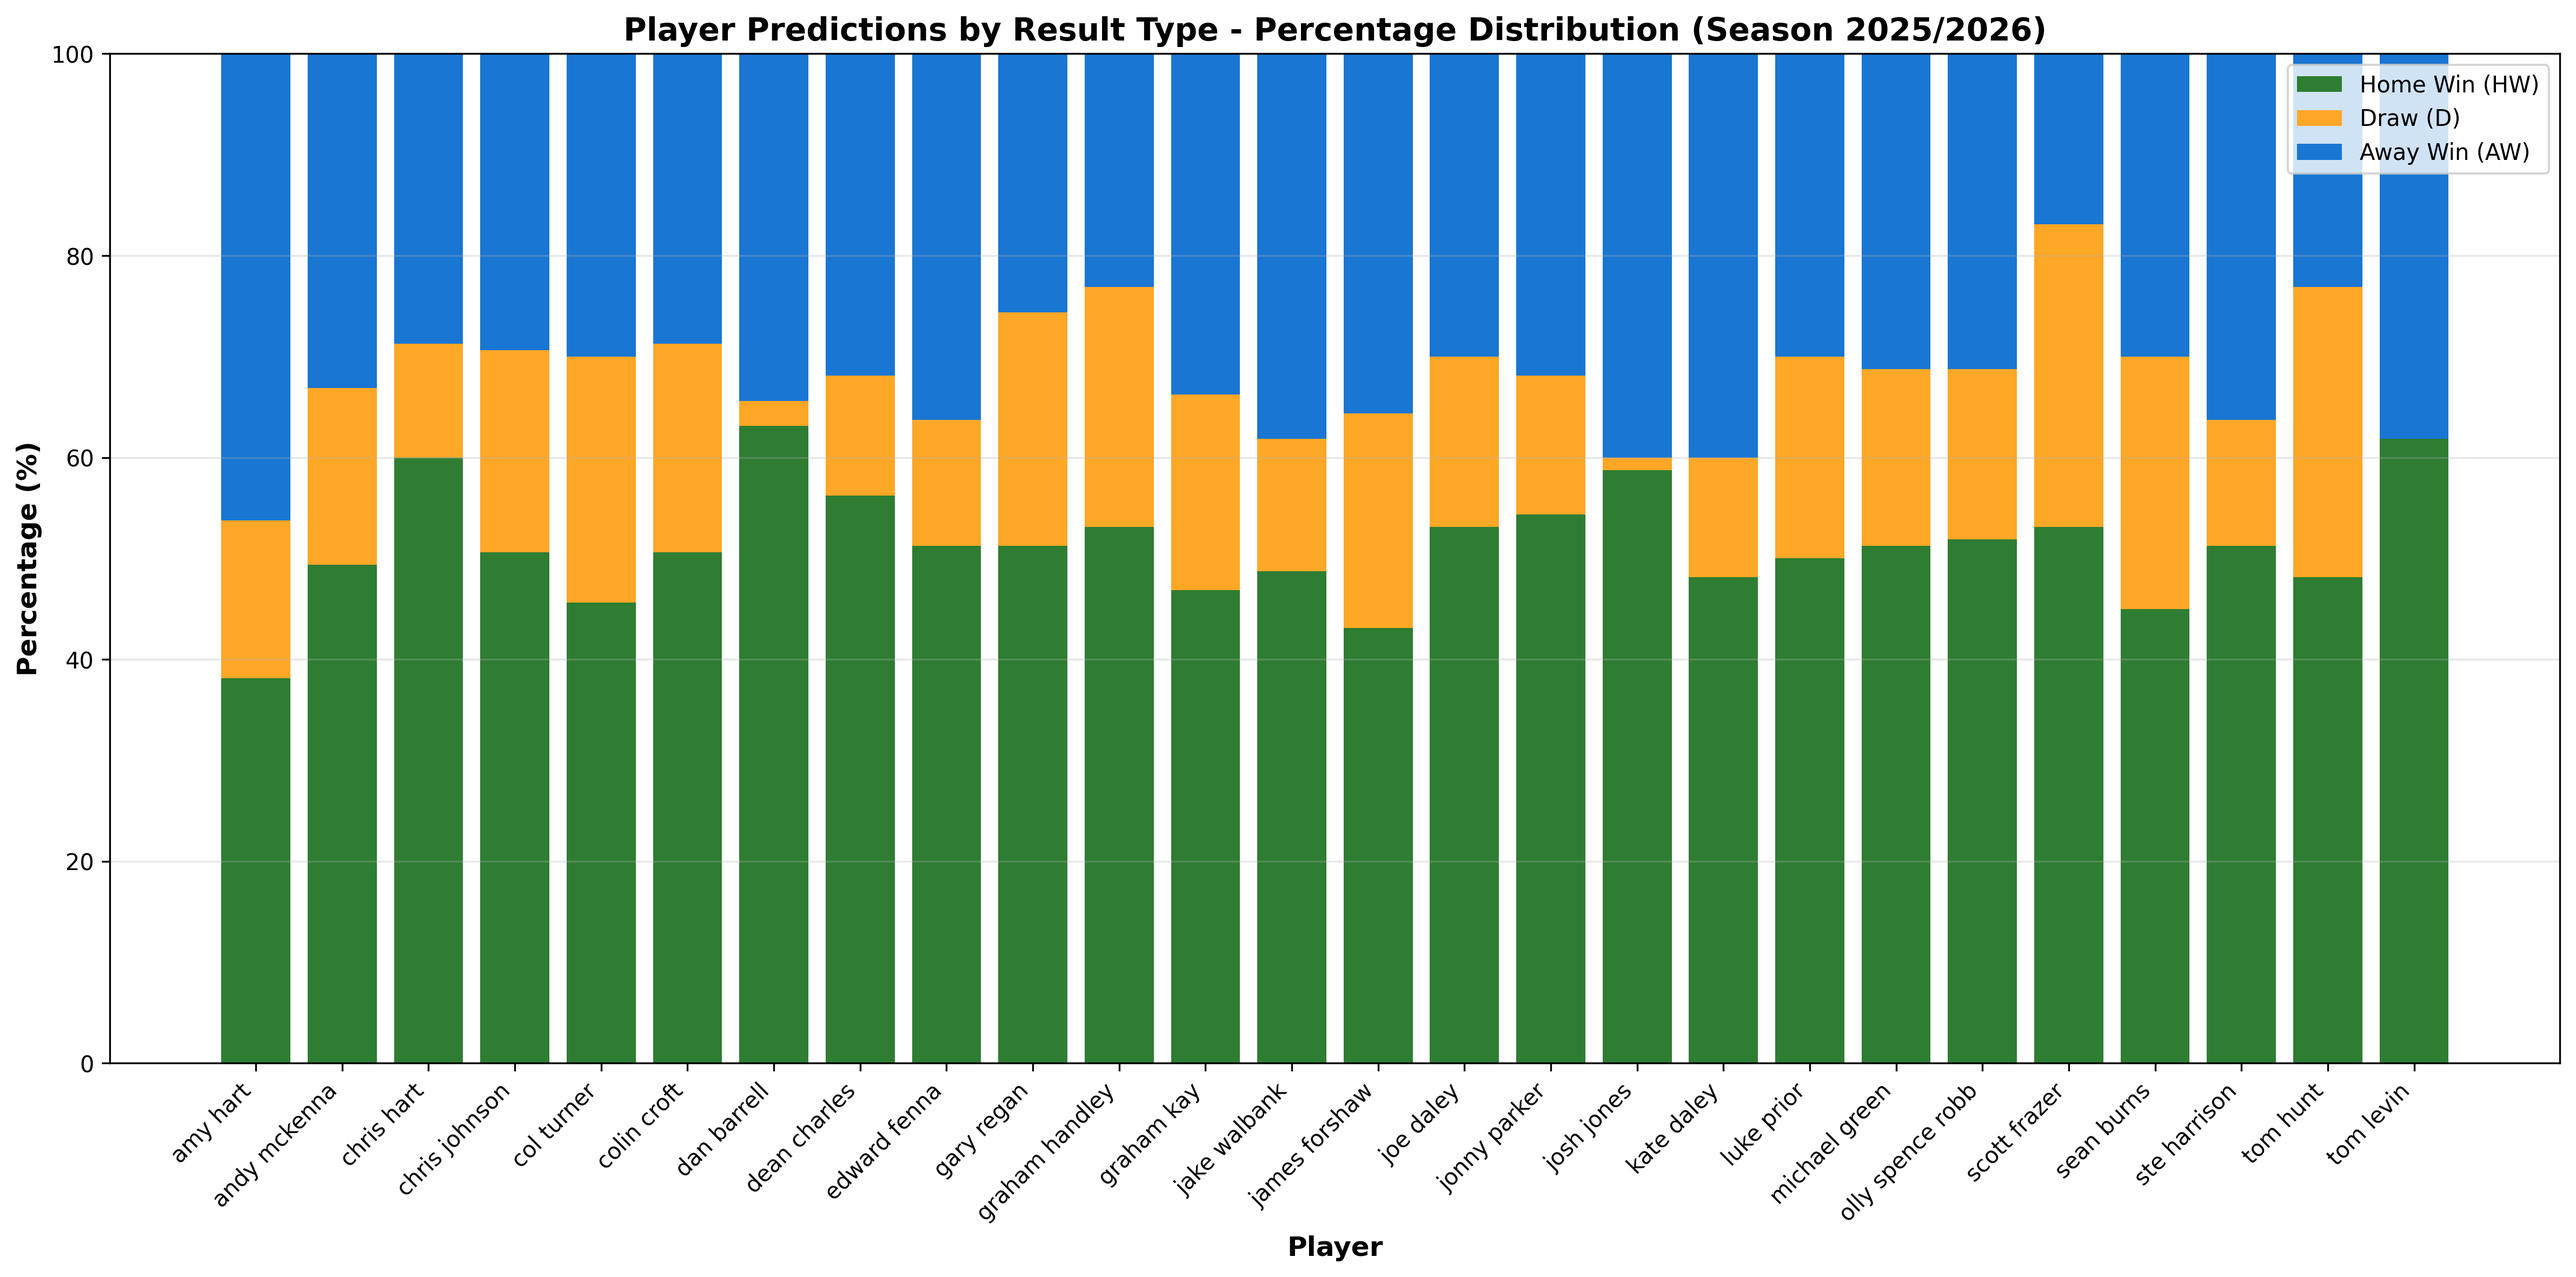
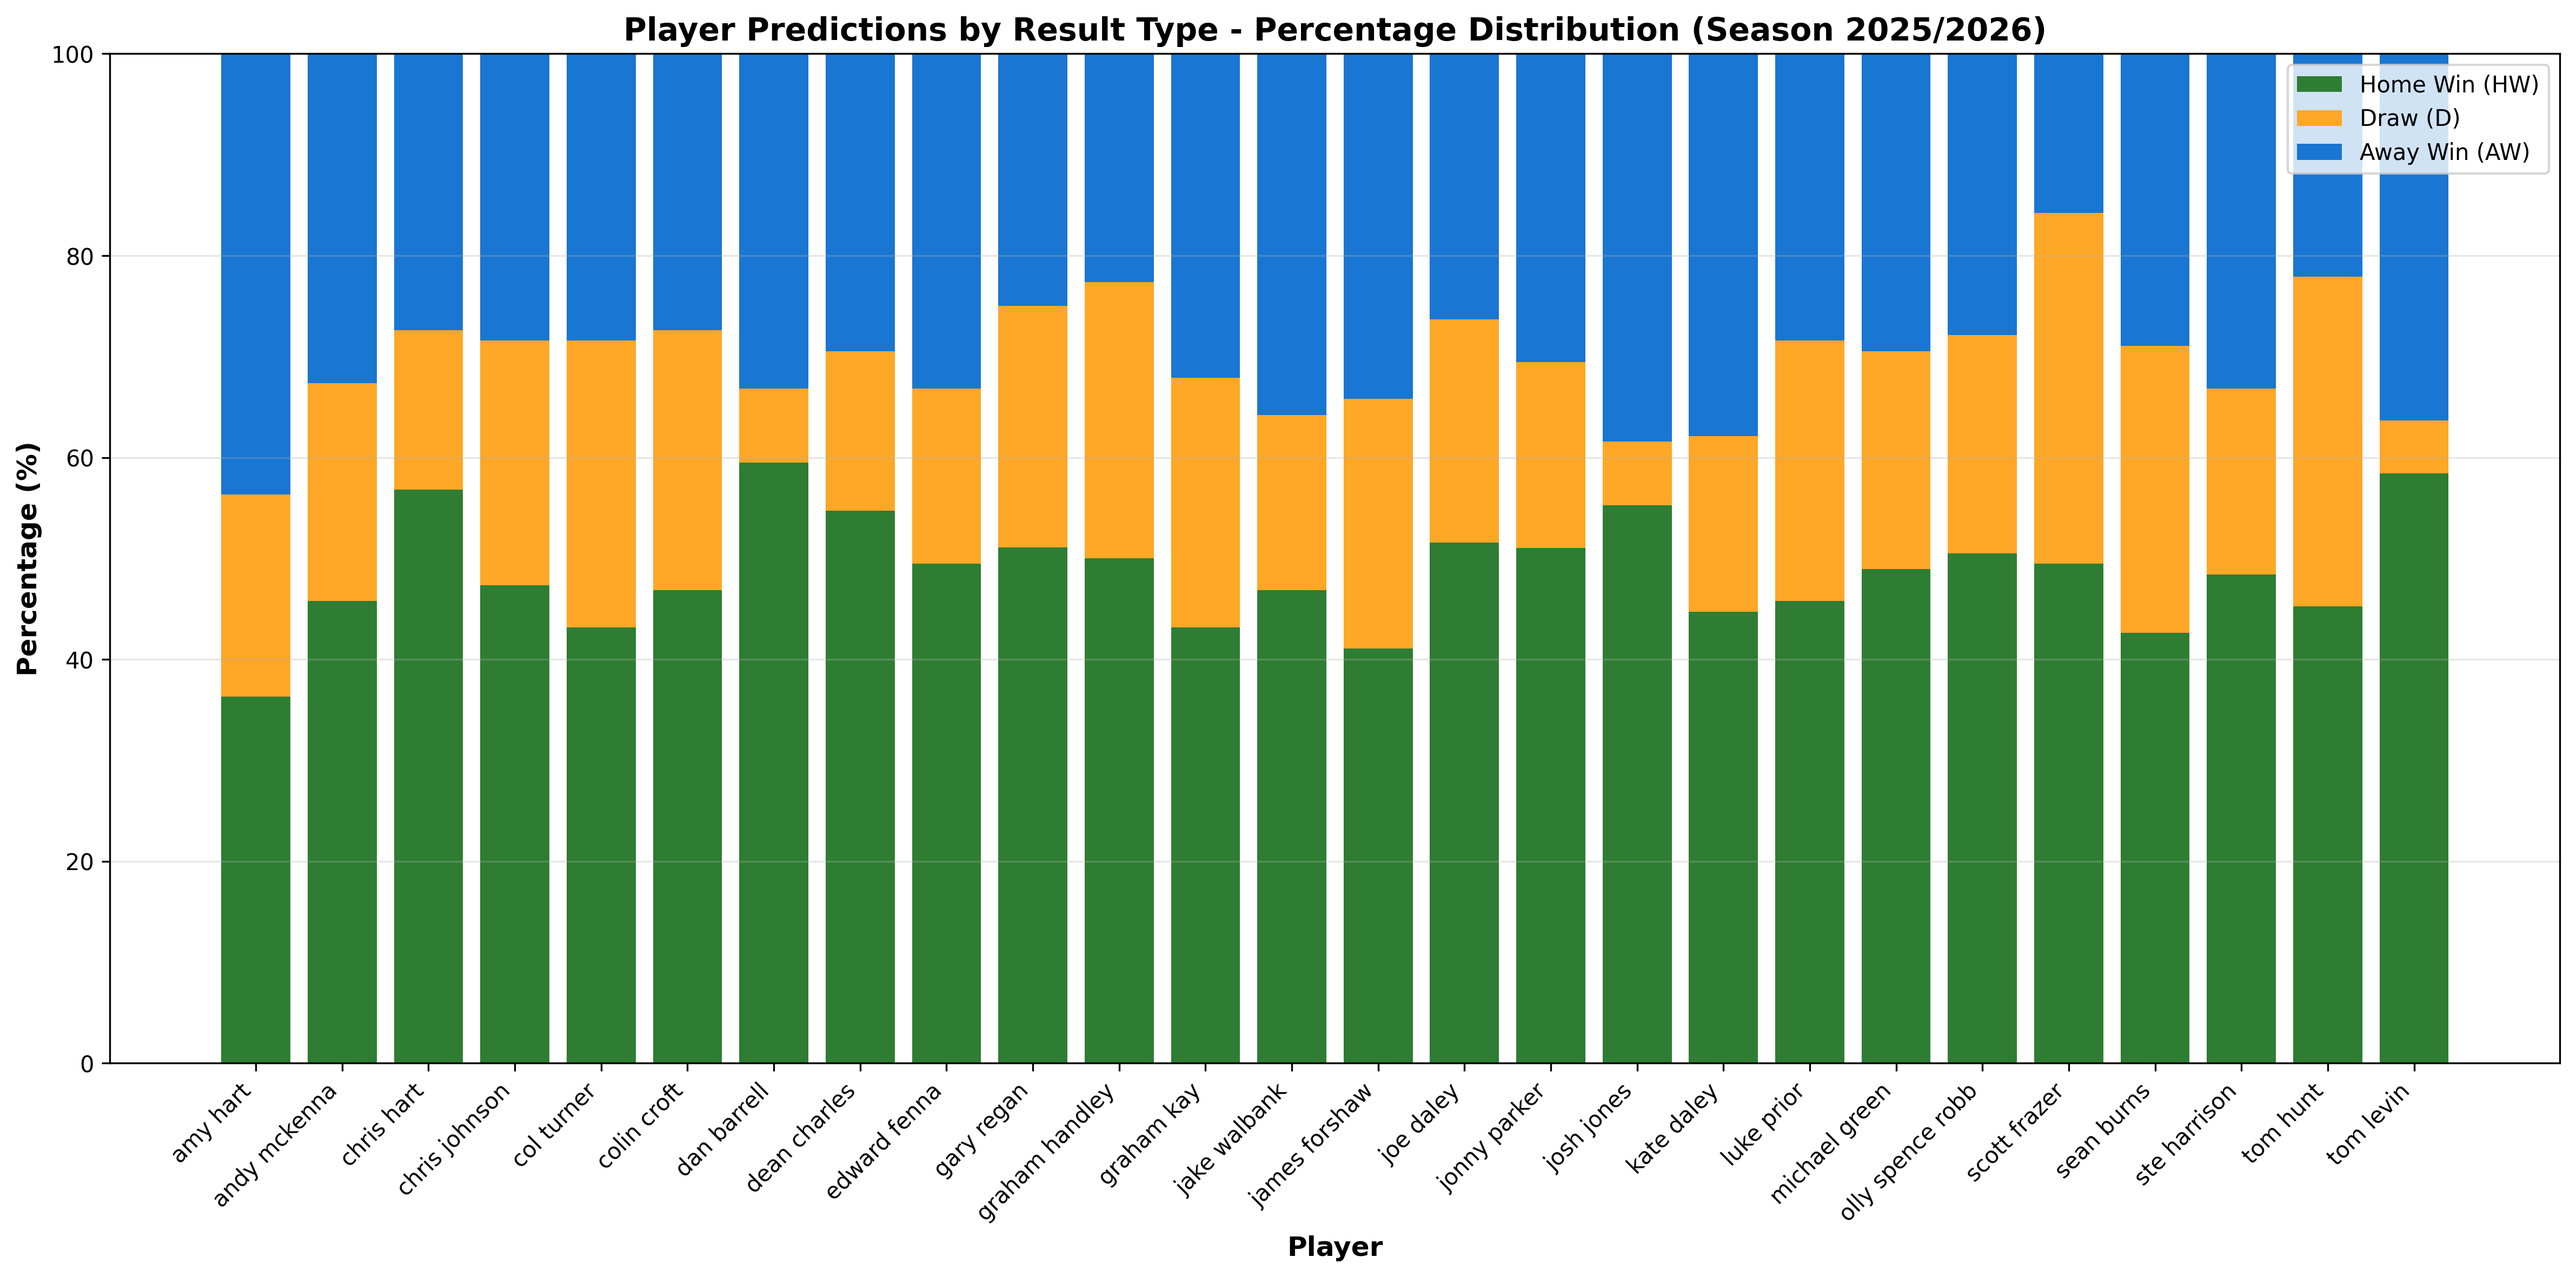
Dont just look at active players

diff --git a/scripts/prediction_league/clean_predictions_dropbox.py b/scripts/prediction_league/clean_predictions_dropbox.py
@@ -463,7 +463,7 @@ def load_teams_and_players(cursor, logger):
     teams = [team[0].lower() for team in cursor.fetchall()]
     
     # Load active players
-    cursor.execute("SELECT player_name FROM players WHERE active = 1")
+    cursor.execute("SELECT player_name FROM players")
     players = [player[0] for player in cursor.fetchall()]
     
     logger.info(f"Loaded {len(teams)} teams and {len(players)} active players")
